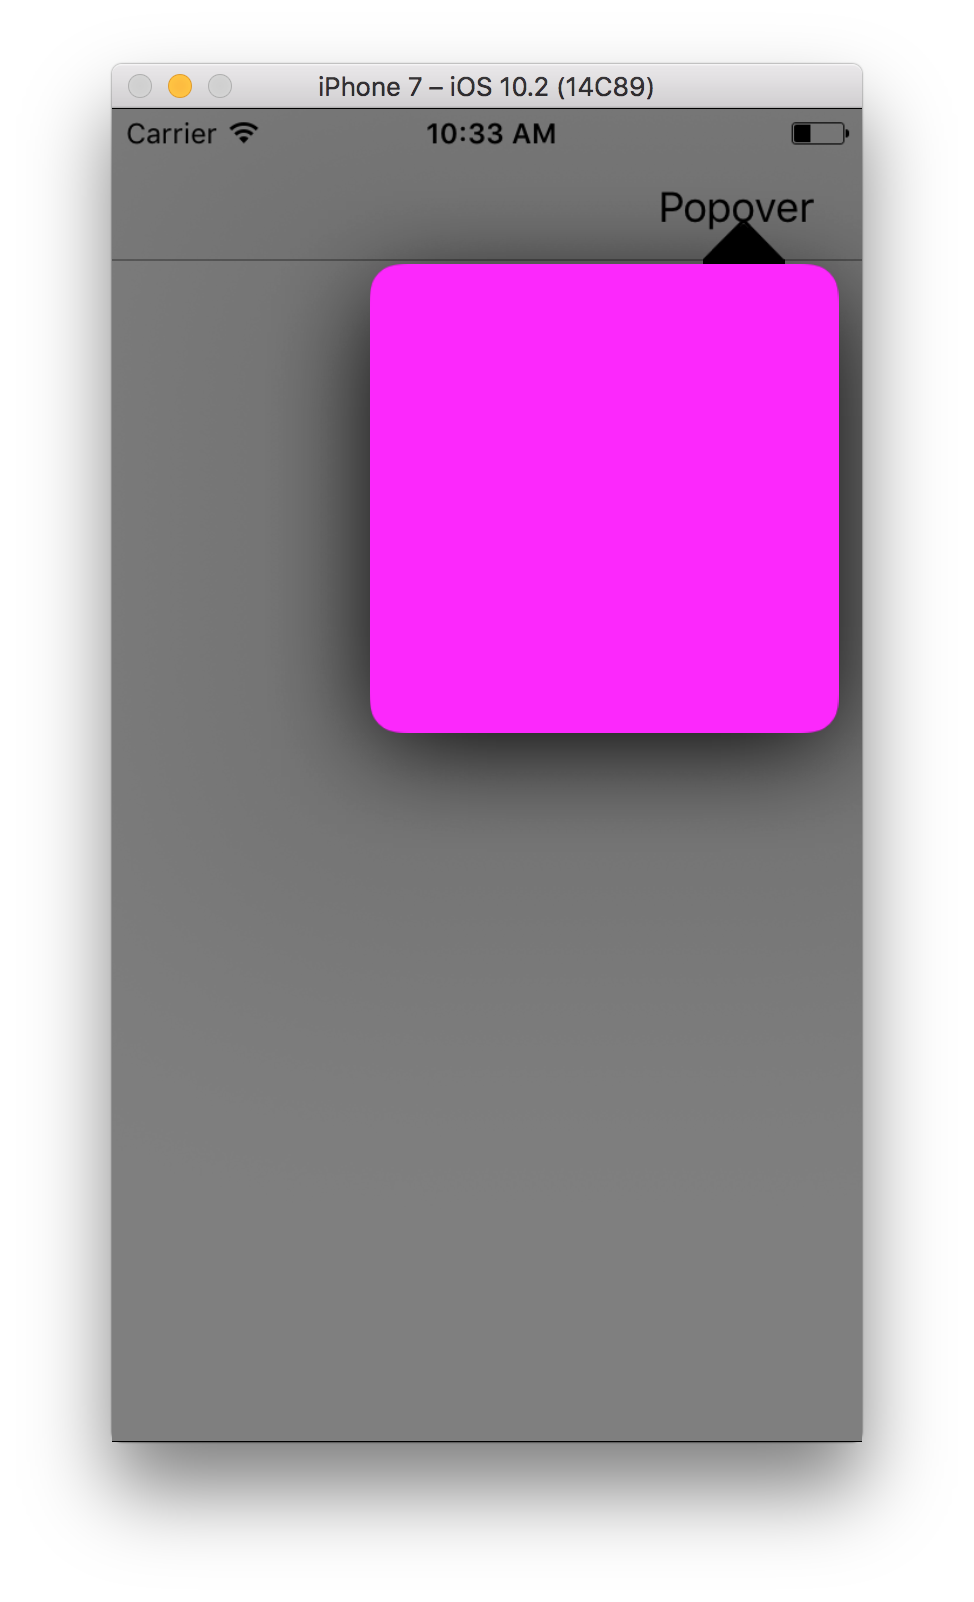
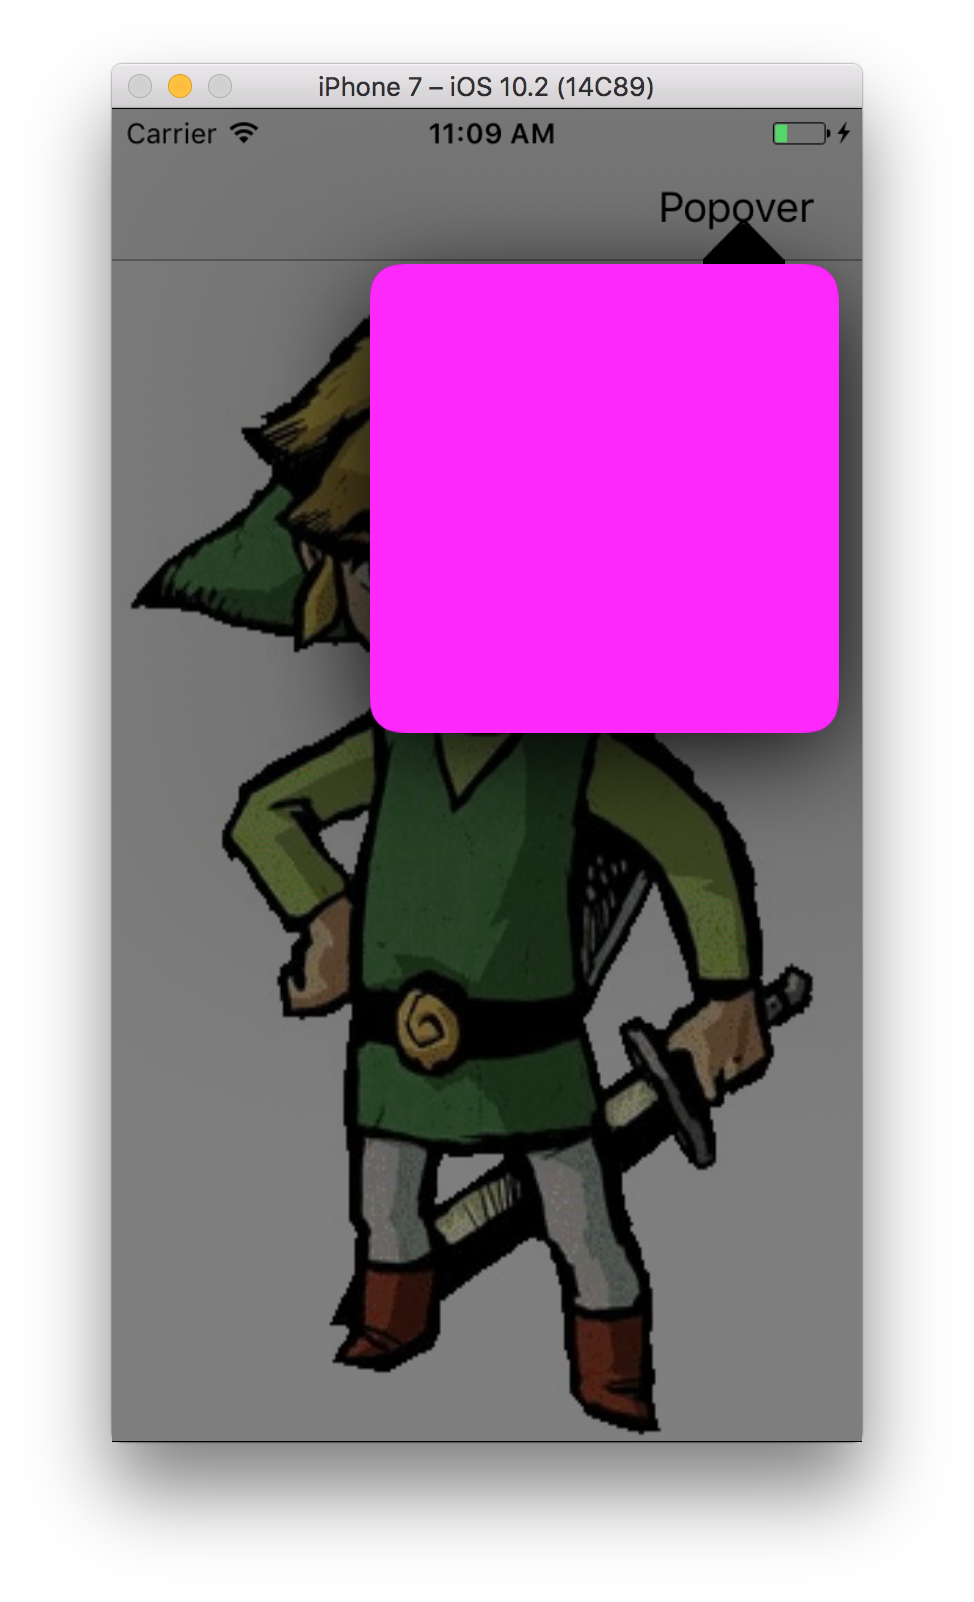
added a blur option for the popover full-screen  background

diff --git a/KSCustomPopover/KSCustomPopoverMainViewController.m b/KSCustomPopover/KSCustomPopoverMainViewController.m
@@ -28,7 +28,7 @@
 #import "KSCustomPopoverBackgroundView.h"
 
 #define CUSTOM_POPOVER_BACKGROUND YES
-#define USE_DIM_BACKGROUND_VIEW NO
+#define USE_DIM_BACKGROUND_VIEW YES
 #define BLUR_DIM_BACKGROUND NO
 
 @interface KSCustomPopoverMainViewController ()
